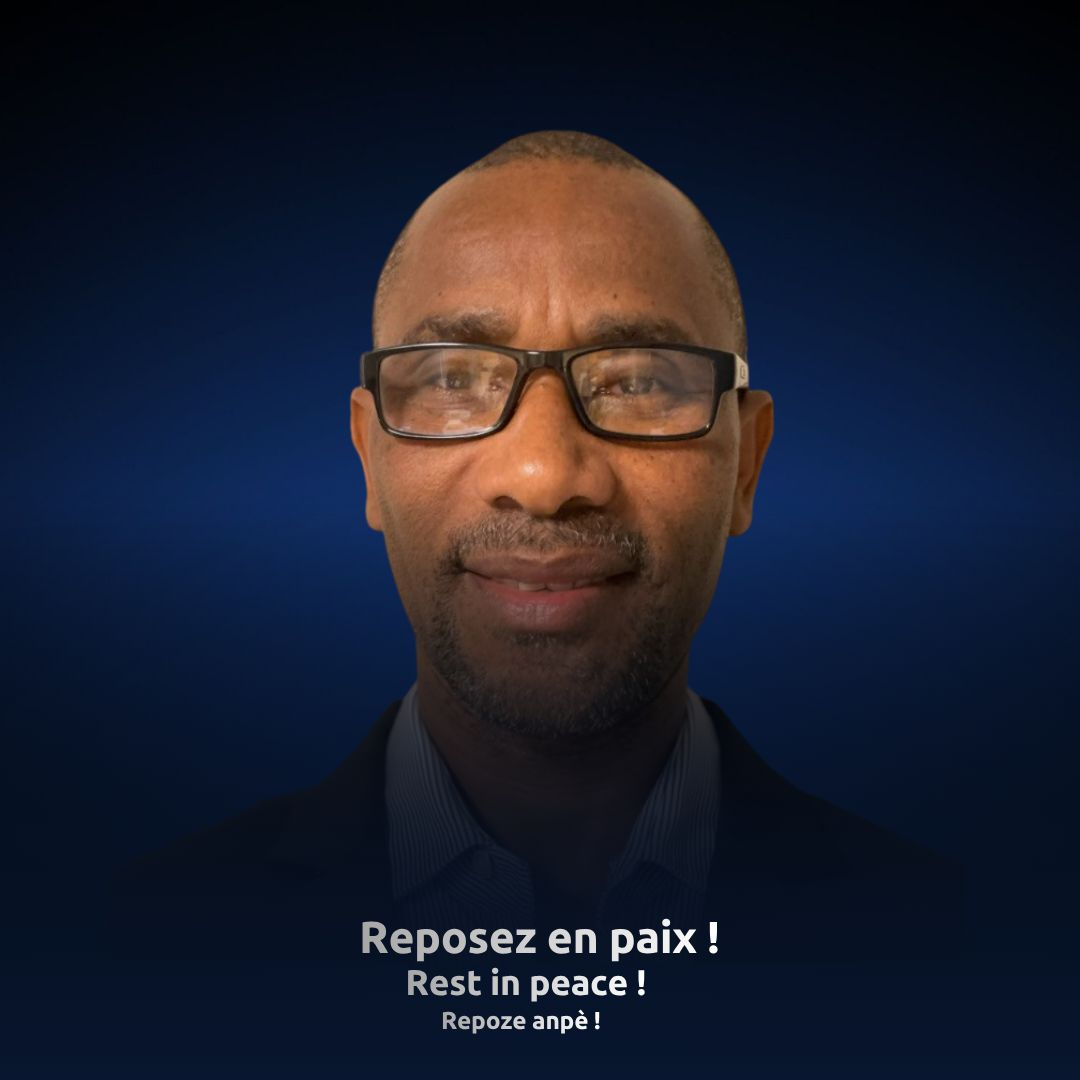
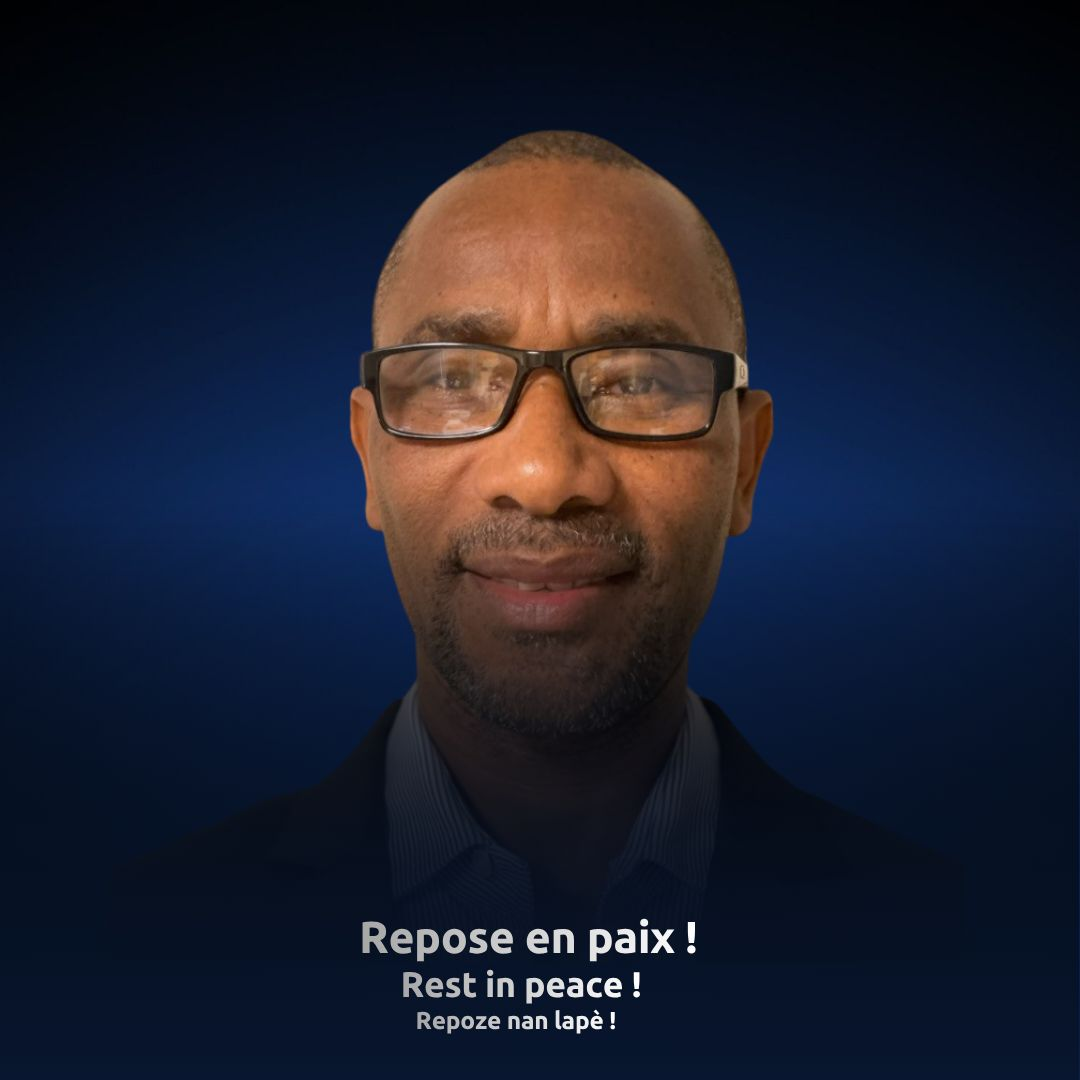
Mettre à jour le portrait, les crédits et les liens des ouvrages

Changed region(s): [[0.3667, 0.8556, 0.6722, 0.9778]]

diff --git a/index.html b/index.html
@@ -35,14 +35,14 @@
       <article class="milestone"><div class="dot">4</div><time>2016</time><h3>Laboratoire LangSÉ</h3><p>Il rejoint durablement le laboratoire Langue, Société, Éducation de l’Université d’État d’Haïti et poursuit la direction de projets scientifiques.</p></article>
     </div></section>
     <section class="works section" id="oeuvres"><div class="works-head"><p class="eyebrow dark">Publications choisies</p><h2>Une œuvre scientifique<br>au service de l’éducation</h2><p>Ses travaux abordent notamment la linguistique, la psychopédagogie, le handicap, l’inclusion et les relations entre langue d’enseignement et réussite scolaire.</p></div><div class="book-grid">
-      <article class="book"><div class="book-cover"><img src="assets/ouvrage-troubles-langage.jpeg" alt="Couverture de Troubles du langage"></div><h3>Troubles du langage, langue d’enseignement et rendement scolaire</h3><p>Essai de diagnostic du système éducatif haïtien</p></article>
-      <article class="book"><div class="book-cover"><img src="assets/ouvrage-analogie.jpeg" alt="Couverture de L’analogie"></div><h3>L’analogie dans le processus de lexicalisation et de sémantisation</h3><p>Approche comparative des créoles</p></article>
+      <article class="book"><a class="book-link" href="https://www.editions-harmattan.fr/catalogue/livre/troubles-du-langage-langue-denseignement-et-rendement-scolaire/22176?srsltid=AfmBOopRIyOJ1dgOuz5C5VWL78jC9bc4VJfNF6597e12AfcqFCE87X7M" target="_blank" rel="noopener noreferrer"><div class="book-cover"><img src="assets/ouvrage-troubles-langage.jpeg" alt="Couverture de Troubles du langage"></div><h3>Troubles du langage, langue d’enseignement et rendement scolaire</h3></a><p>Essai de diagnostic du système éducatif haïtien</p></article>
+      <article class="book"><a class="book-link" href="https://www.lambert-lucas.com/livre/lanalogie-dans-le-processus-de-lexicalisation-et-de-semantisation-en-creoles-guadeloupeen-guyanais-haitien-et-martiniquais/" target="_blank" rel="noopener noreferrer"><div class="book-cover"><img src="assets/ouvrage-analogie.jpeg" alt="Couverture de L’analogie"></div><h3>L’analogie dans le processus de lexicalisation et de sémantisation</h3></a><p>Approche comparative des créoles</p></article>
       <article class="book"><div class="book-cover"><img src="assets/ouvrage-handicap-ecole.jpeg" alt="Couverture de Le handicap à l’école haïtienne"></div><h3>Le handicap à l’école haïtienne</h3><p>Recherche-action dans le Grand Sud d’Haïti</p></article>
-      <article class="book"><div class="book-cover"><img src="assets/ouvrage-disability-diversity.jpeg" alt="Couverture de Disability, Diversity and Inclusive Education in Haiti"></div><h3>Disability, Diversity and Inclusive Education in Haiti</h3><p>Learning, exclusion and educational relationships</p></article>
+      <article class="book"><a class="book-link" href="https://www.routledge.com/Disability-Diversity-and-Inclusive-Education-in-Haiti-Learning-Exclusion-and-Educational-Relationships-in-the-Context-of-Crises/Lainy/p/book/9781032389479" target="_blank" rel="noopener noreferrer"><div class="book-cover"><img src="assets/ouvrage-disability-diversity.jpeg" alt="Couverture de Disability, Diversity and Inclusive Education in Haiti"></div><h3>Disability, Diversity and Inclusive Education in Haiti</h3></a><p>Learning, exclusion and educational relationships</p></article>
     </div></section>
     <section class="legacy" id="heritage"><div class="section legacy-inner"><div class="quote-mark">“</div><p class="eyebrow gold">Son héritage</p><h2>Une œuvre qui continuera<br>d’éclairer la recherche.</h2><p>Le professeur Lainy laisse derrière lui une œuvre considérable consacrée notamment à la psychopédagogie, au handicap et à l’éducation. Elle témoigne de son profond engagement en faveur de la recherche, de l’inclusion et de la transmission des connaissances.</p><div class="source-links"><a href="https://langse.ueh.edu.ht/rochambeau-lainy/" target="_blank" rel="noreferrer">Profil académique — LangSÉ / UEH ↗</a><a href="https://ht.wikipedia.org/wiki/Rochambeau_Lainy" target="_blank" rel="noreferrer">Notice biographique en créole ↗</a></div></div></section>
     <section class="invitation section"><div class="candle"><div class="flame"></div><div class="wick"></div><div class="wax"></div></div><div><p class="eyebrow dark">Faire vivre sa mémoire</p><h2>Son enseignement demeure parmi nous.</h2><p>Ce mémorial pourra prochainement accueillir les souvenirs, témoignages et photographies de ses collègues, étudiants, amis et proches.</p></div></section>
   </main>
-  <footer><div class="brand"><span class="brand-mark">RL</span><span>In memoriam</span></div><p>En souvenir du professeur Rochambeau Lainy<br><span>25 octobre 1968 — 19 août 2026</span><br><small>© 2026 Mabien Bruny. Tous droits réservés.</small></p><a href="#accueil">Retour en haut ↑</a></footer>
+  <footer><div class="brand"><span class="brand-mark">RL</span><span>In memoriam</span></div><p>En souvenir du professeur Rochambeau Lainy<br><span>25 octobre 1968 — 19 août 2026</span><br><small>Courtoisie de Ralphson Pierre et de Bruny Mabien, © 2026&nbsp; Tous droits réservés.</small></p><a href="#accueil">Retour en haut ↑</a></footer>
   <script src="script.js"></script>
 </body></html>
